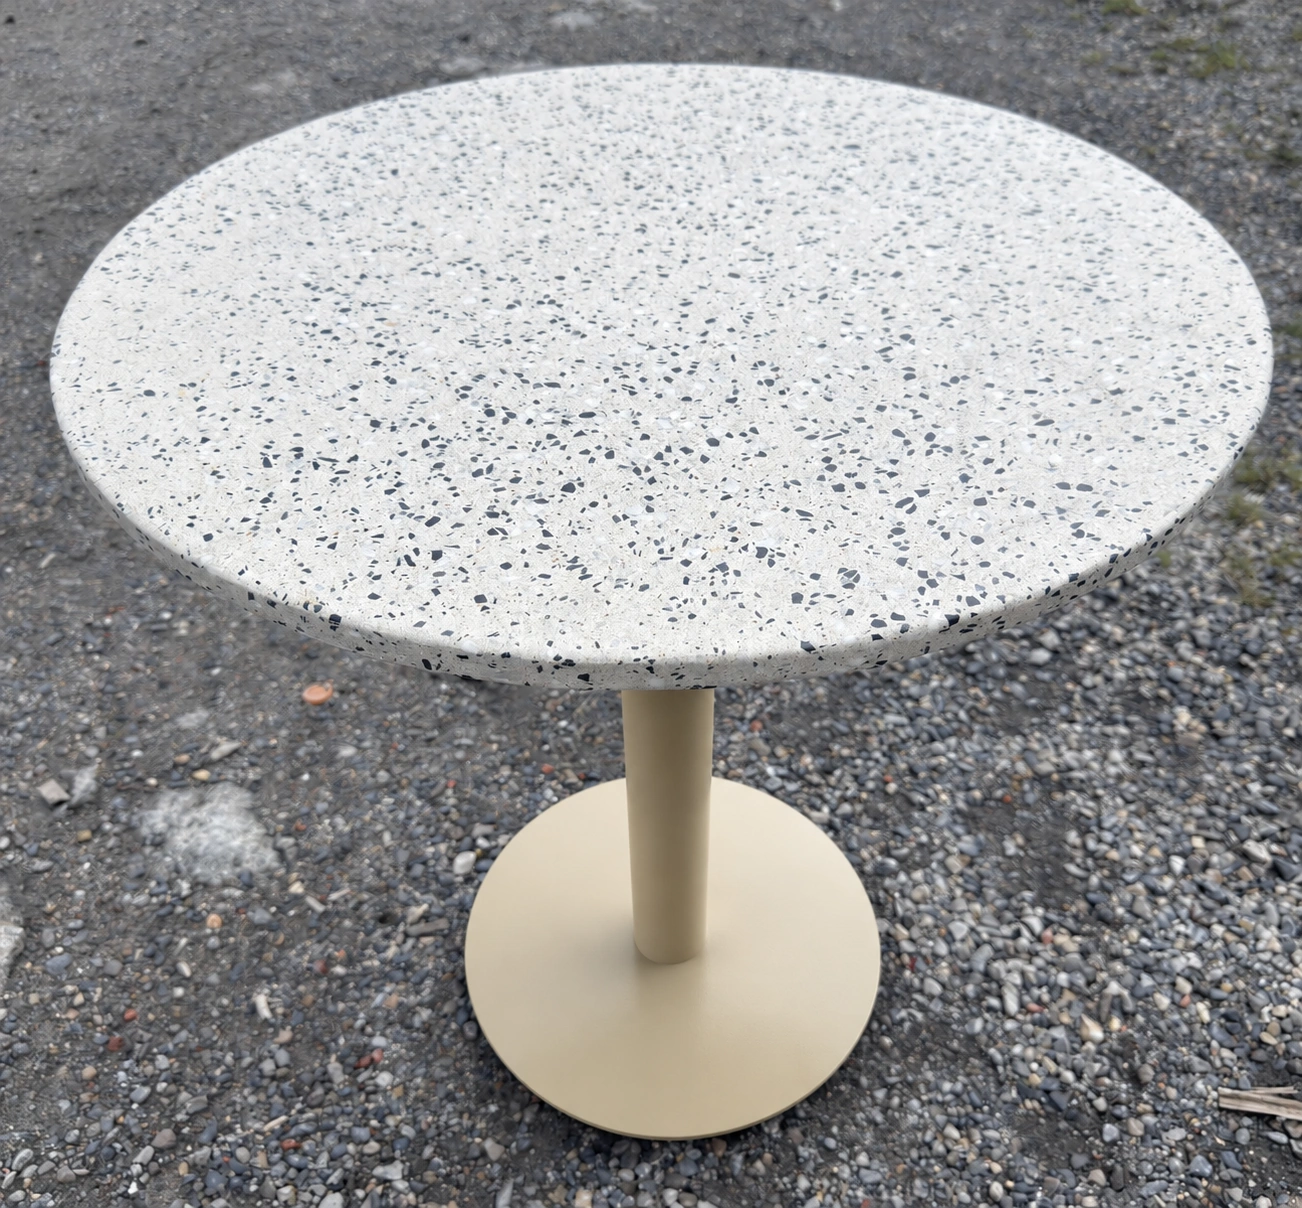
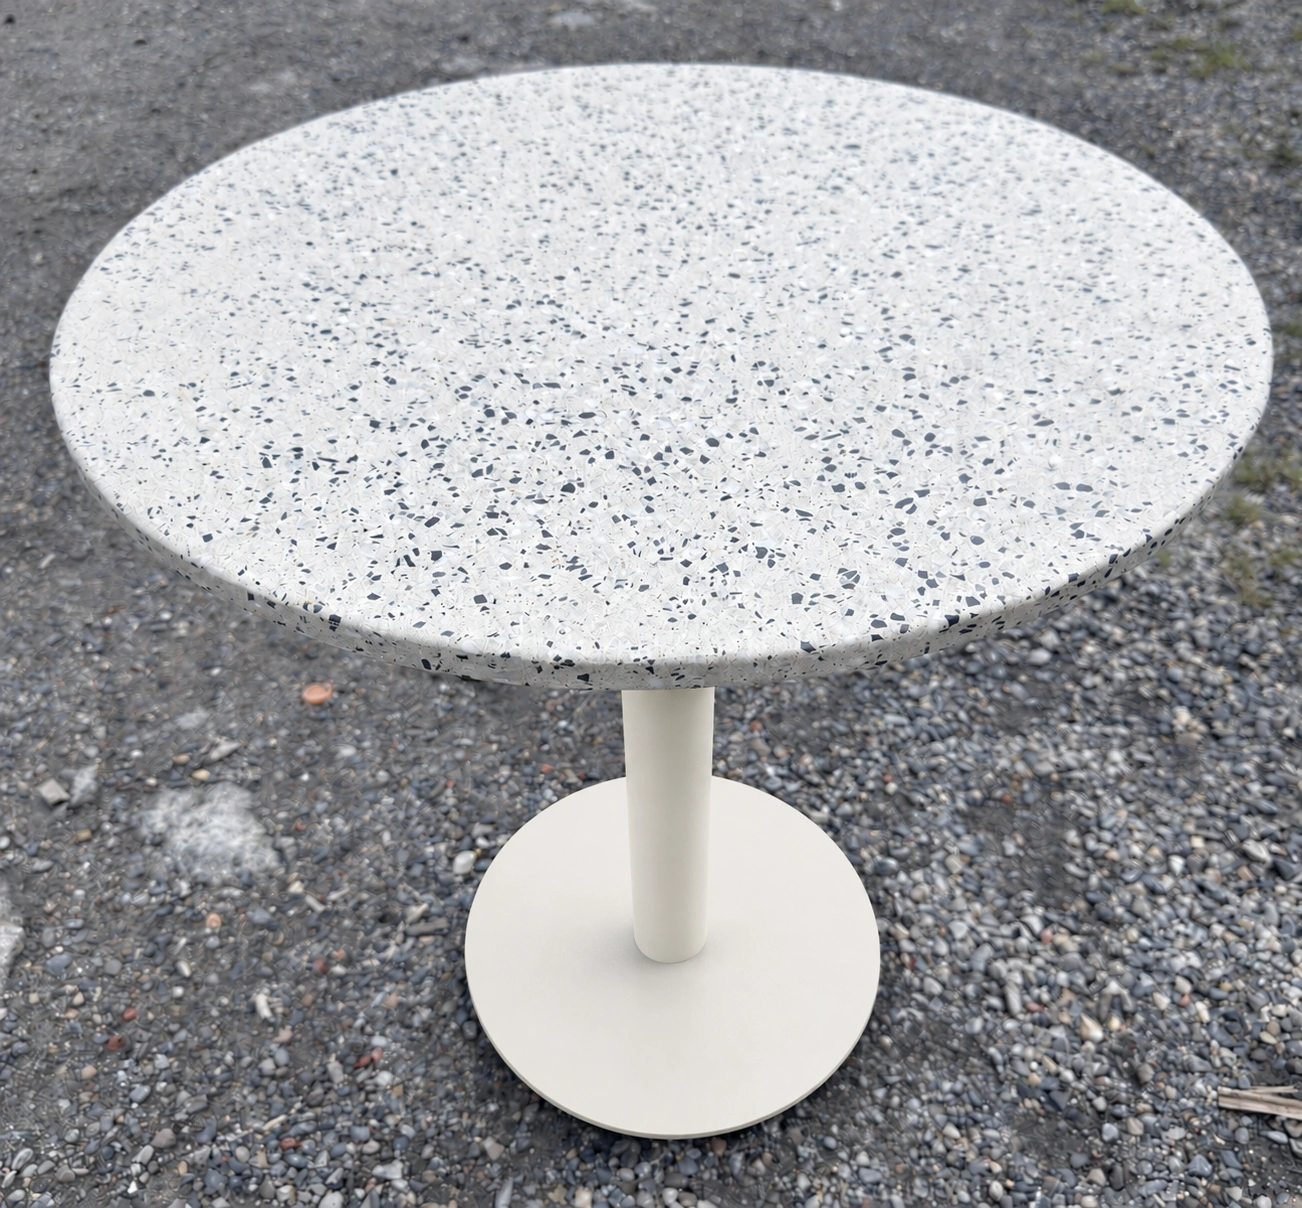
Lighten almond and neutralize white metal base finishes

diff --git a/assets/table-finishes.js b/assets/table-finishes.js
@@ -10,9 +10,9 @@
   note.hidden = true;
   palette.after(note);
   const baseColors = [
-    { id: 'blanco', name: 'Blanco', hex: '#efeee8' },
+    { id: 'blanco', name: 'Blanco', hex: '#fafafa' },
     { id: 'negro', name: 'Negro', hex: '#202221' },
-    { id: 'almendra', name: 'Almendra', hex: '#d9cdb5' },
+    { id: 'almendra', name: 'Almendra', hex: '#eeebe4' },
     { id: 'vinotinto', name: 'Vinotinto', hex: '#6b2438' },
     { id: 'verde-militar', name: 'Verde militar', hex: '#505c3f' },
     { id: 'azul-rey', name: 'Azul rey', hex: '#2049b4' },
